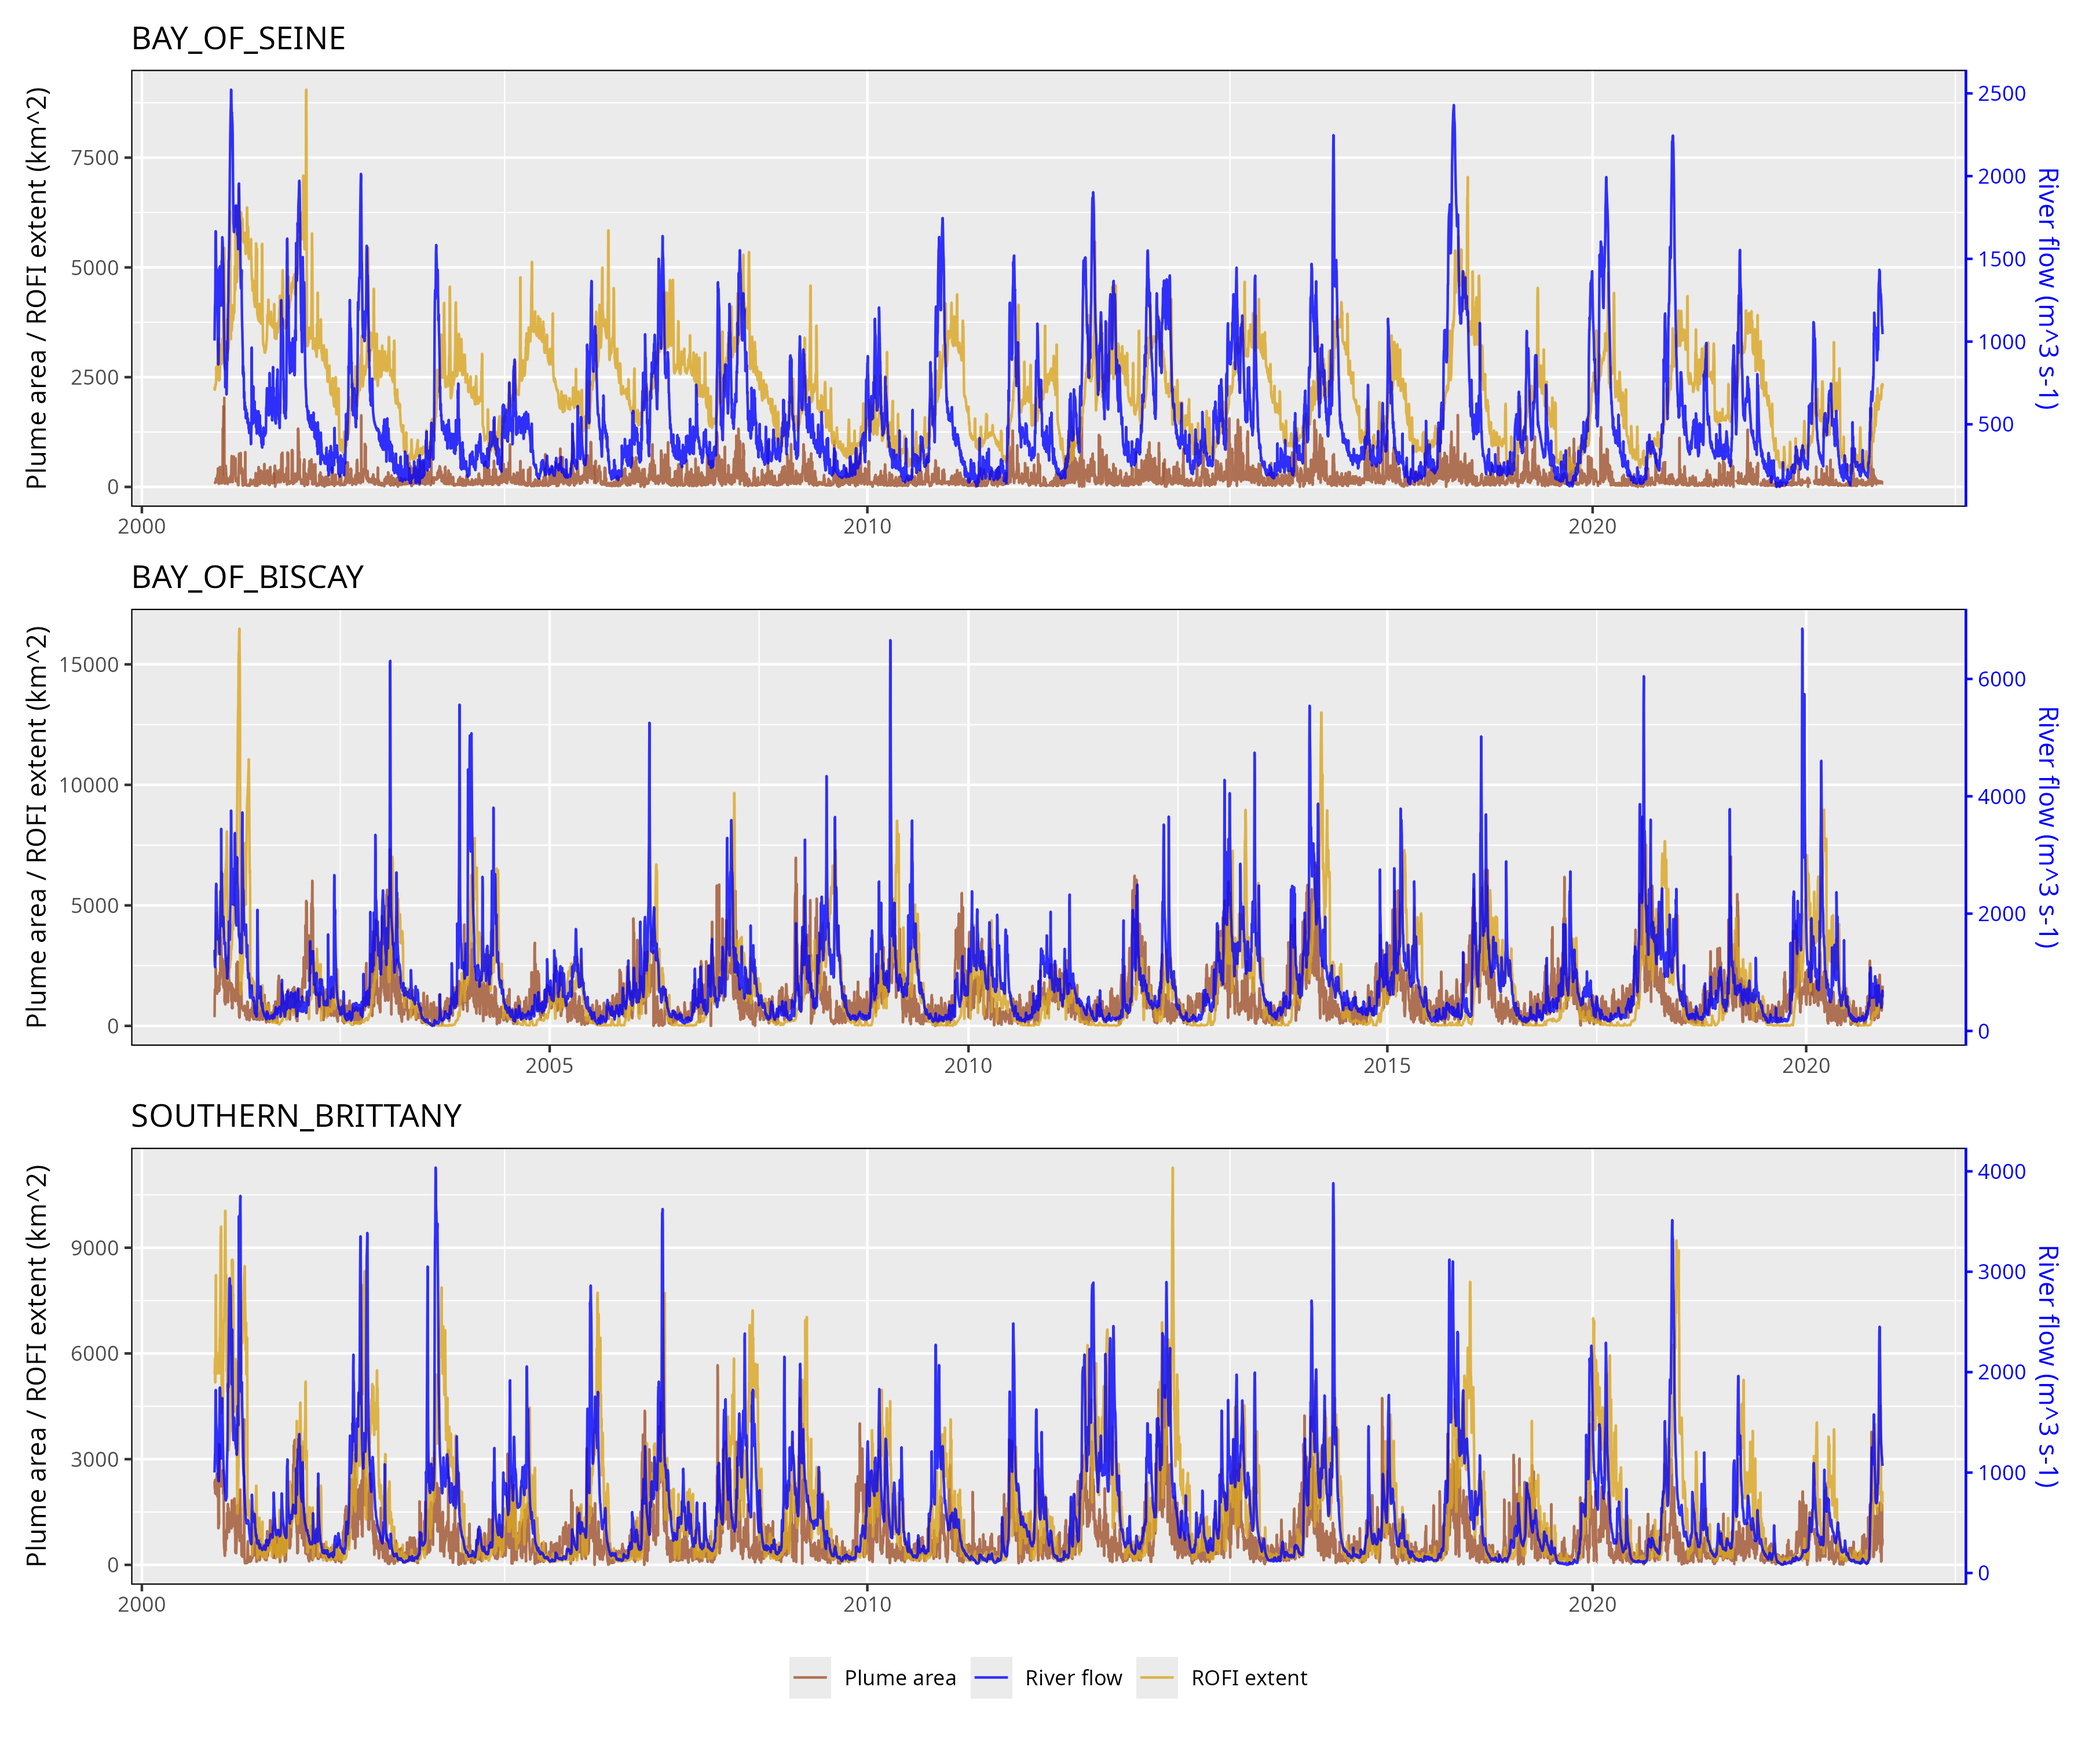
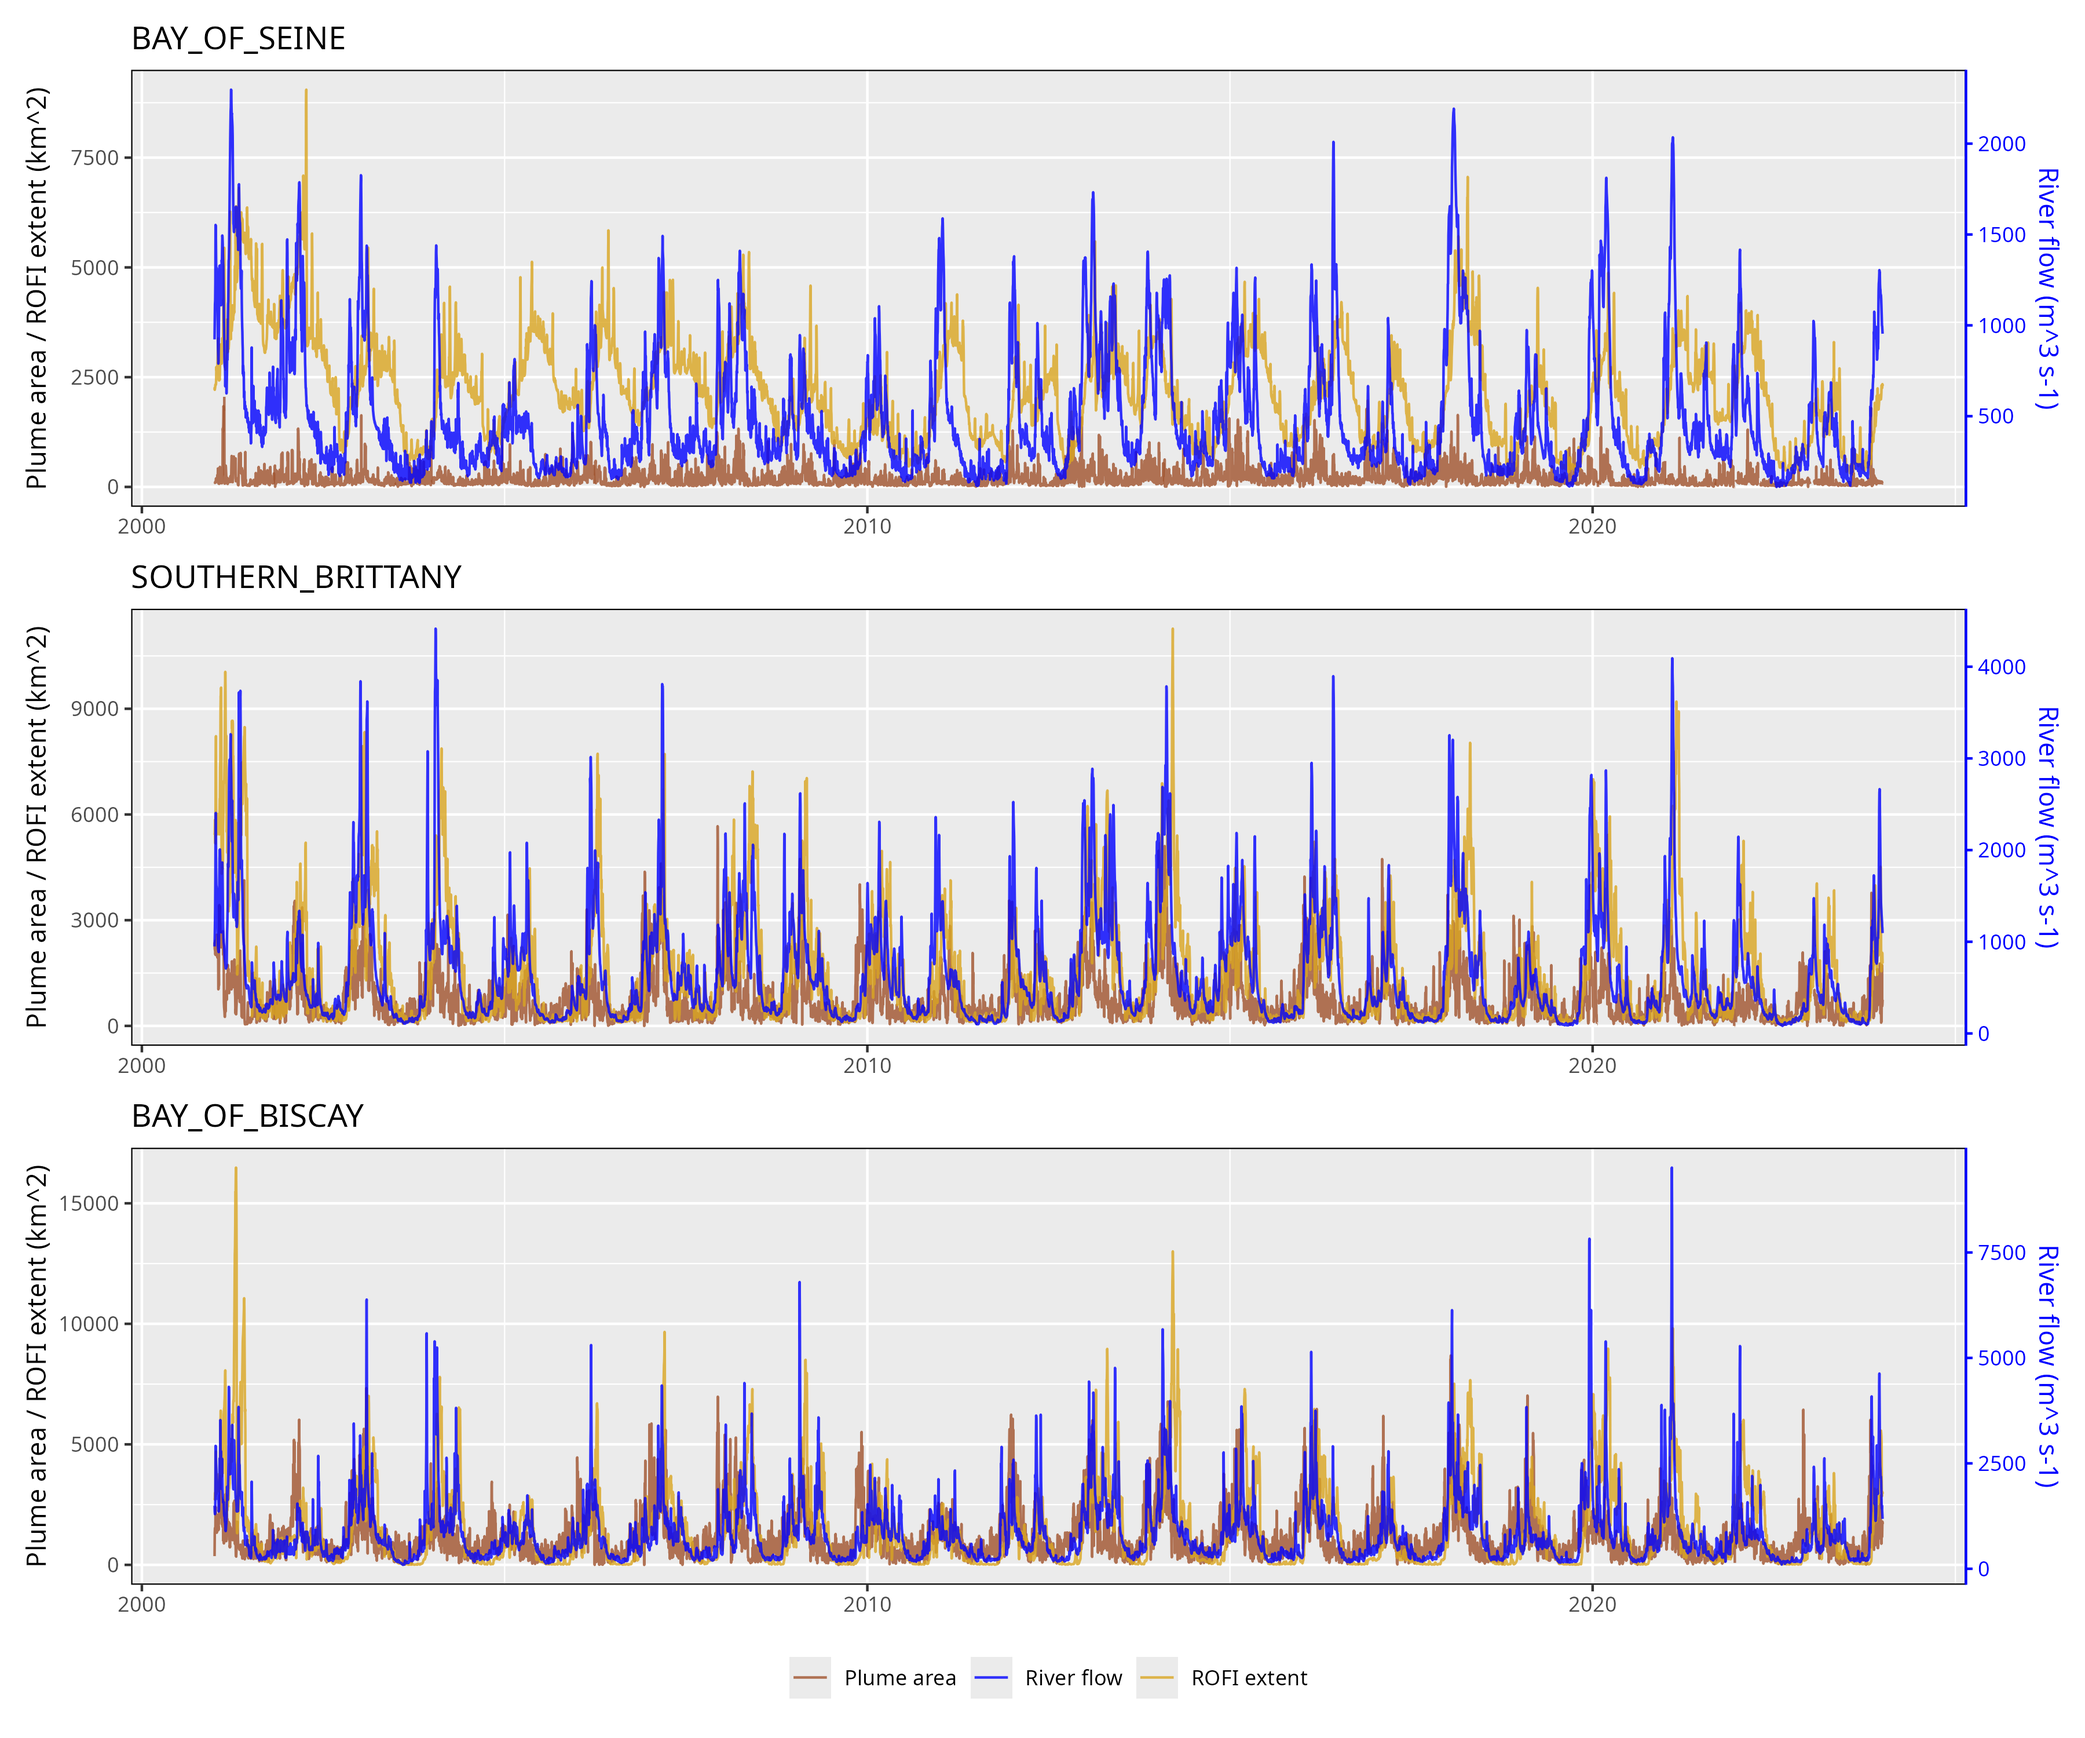
Add Table 3 generator, wire Figure S4/ROFI into the pipeline, port match-up to validate.R
func/compute_tide_station_metadata.R: derives manuscript Table 3's tide-
station data (name, coordinates, date range) from data/TIDES/*/*.sml and
*.txt, following the same standalone-script convention as Tables 5/6.
Verified against the manuscript's existing Table 3 values.

code/5_figures.py: wires func/ROFI.R::run_rofi_plume_succession() (Figure
S4a/b) into the automated pipeline; previously had to be run by hand.

func/validate.R: adds the satellite grid-window match-up that produces
output/MATCH_UP_DATA/FRANCE/summary.csv (manuscript Table 4's source),
replacing the retired func/validate.py::Match_up_with_insitu_measurements().
Matches the retired Python path's literal concentric-grid pixel-window
convention (1x1/3x3/5x5/7x7), verified end-to-end against the real ~28-year
dataset and cross-checked through func/compute_validation_stats.R.

figures/ARTICLE/FIGURE_S4/*.png regenerated by exercising the new wiring.

diff --git a/code/5_figures.py b/code/5_figures.py
@@ -10,6 +10,7 @@
 
 import os, sys
 import matplotlib as mpl
+import rpy2.robjects as robjects
 
 proj_dir = os.path.dirname( os.path.abspath('__file__') )
 func_dir = os.path.join( proj_dir, 'func' )
@@ -46,31 +47,27 @@ Figure_3_zone_maps(where_are_saved_regional_maps = "output",
 # panels + Figure_3_zone_maps()' zone-maps panel); must run after both
 Figure_3(where_to_save_the_figure = "figures")
 
-# manuscript Figure 5: plume-area-vs-flow scatter + lagged correlation
-Figure_5_driver_comparison(where_to_save_the_figure = "figures")
-
 # Figure 4 (plume area + mean SPM time series) + Figure S1 (dynamic vs.
 # static threshold comparison)
 Figure_4_S1_timeseries(where_are_saved_plume_results_with_dynamic_threshold = "output/panache/dynamic",
                        where_are_saved_plume_results_with_fixed_threshold = "output/panache/static",
                        where_to_save_the_figure = "figures")
 
-# manuscript Figures 7-9: wind/wave roses, flow-controlled wave/wind-category
-# scatter, and GAM partial-dependence curves -- replace the original X11-
-# decomposed wind/wave/tide time series concept (direction matters more than
-# magnitude for wind/wave; tide has no meaningful long-term trend to show)
-Figure_7_driver_rose(where_to_save_the_figure = "figures")
-Figure_8_driver_category(where_to_save_the_figure = "figures")
-Figure_9_gam_partial(where_to_save_the_figure = "figures")
+# manuscript Figure 5: plume-area-vs-flow scatter + lagged correlation
+Figure_5_driver_comparison(where_to_save_the_figure = "figures")
 
 # Figure 6 (X11 interannual signal, dynamic threshold) + Figure S3 (X11
 # seasonal + residual, dynamic threshold) + Figure S6/S7 (static-threshold
-# equivalents, supplementary) -- replaces the deprecated Figure_8_9_10(),
-# whose static-threshold output was computed but never actually cited
-# anywhere in the manuscript (2026-08-01 audit).
+# equivalents, supplementary)
 Figure_X11_weekly_results(where_are_saved_X11_results_dynamic = "output/panache/dynamic",
                           where_are_saved_X11_results_static = "output/panache/static",
                           where_to_save_the_figure = "figures")
+
+# manuscript Figures 7-9: wind/wave roses, flow-controlled wave/wind-category
+# scatter, and GAM partial-dependence curves
+Figure_7_driver_rose(where_to_save_the_figure = "figures")
+Figure_8_driver_category(where_to_save_the_figure = "figures")
+Figure_9_gam_partial(where_to_save_the_figure = "figures")
 
 
 # =============================================================================
@@ -78,7 +75,12 @@ Figure_X11_weekly_results(where_are_saved_X11_results_dynamic = "output/panache/
 # =============================================================================
 
 # Figure S3: seasonal (JJA vs. NDJ) boxplots of plume metrics, dynamic vs.
-# static threshold -- migrated from manuscript/make_figures_tables.R into
-# the real pipeline (2026-08-01). Renamed 2026-07-31 from Figure S4 when
-# the daily-vs-weekly Figure S2 was removed and later figures renumbered.
+# static threshold
 Figure_S3_seasonal_boxplots(where_to_save_the_figure = "figures")
+
+# Figure S4a/b: flow/plume/ROFI succession + lagged correlation. Previously
+# run by hand -- see func/ROFI.R::run_rofi_plume_succession().
+rofi_R_path = os.path.join(func_dir, 'ROFI.R')
+robjects.r['source'](rofi_R_path)
+robjects.r['run_rofi_plume_succession']()
+
